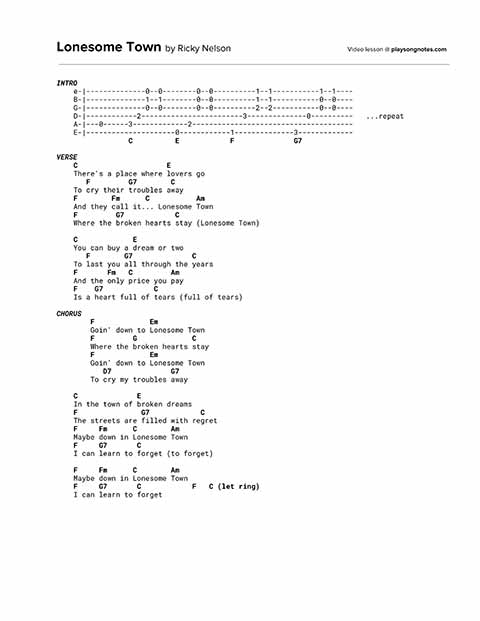
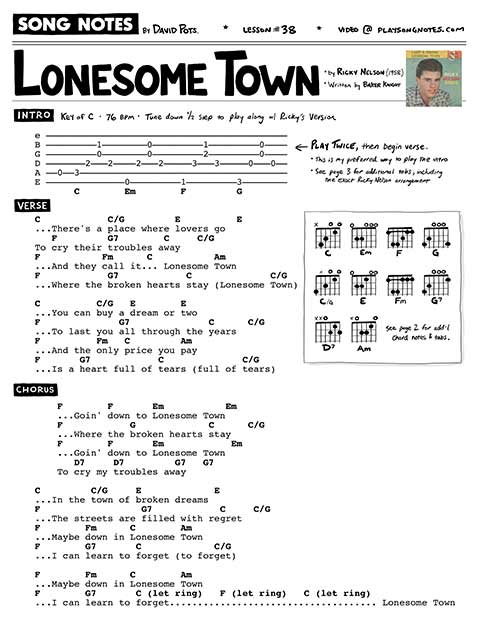
Adds 38

diff --git a/_lessons/38 [Ricky Nelson] Lonesome Town.md b/_lessons/38 [Ricky Nelson] Lonesome Town.md
@@ -12,10 +12,10 @@ hidden_tags: [Pulp Fiction, Tarantino]
 slug: "38"
 redirect_from:
   - /songs/ricky-nelson-lonesome-town/
-pdf_version: v1
+pdf_version: v2
 pdf_numpages: 4
 patreon_lesson_available: true
-patreon_lesson_url: https://www.patreon.com/posts/26435441
+patreon_lesson_url: https://www.patreon.com/posts/47547391
 ---
 
 ## Video lesson
@@ -26,7 +26,7 @@ patreon_lesson_url: https://www.patreon.com/posts/26435441
 
 ## Editor's notes
 
-This video is an acoustic guitar lesson for the song "Lonesome Town" by Ricky Nelson. I'll show you how to play it in standard tuning, using a fingerpicking approach. This lesson includes a playthrough, explanation of how to play each chord, overview of the chord progressions needed, fingerpicking basics -- I cover it all! Including the difference between a shuffle vs. straight rhythm. I created this tutorial for Songnotes, which is my personal music lesson web project (video and text-based lessons).
+This video is an acoustic guitar lesson for the song "Lonesome Town" by Ricky Nelson. I'll show you how to play it in standard tuning, using a fingerpicking approach. This lesson includes a playthrough, explanation of how to play each chord, overview of the chord progressions needed, fingerpicking basics -- I cover it all! Including the difference between a shuffle vs. straight rhythm. I created this tutorial for Song Notes, which is my personal music lesson web project (video and text-based lessons).
 
 Video timestamps:
 
@@ -40,78 +40,204 @@ Video timestamps:
 
 ## Lyrics with chords
 
+Key of C, 76 beats per minute. Tune down 1/2 step to play in same key as Ricky Nelson.
+
     INTRO
-        C . Em . F . G7 . (x2, see tab below)
+        e –––––––––––––––––––––––––––––––––––––––––––
+        B –––––––––1––––––––0–––––––––1–––––––––0––––  <= right ring
+        G –––––––––0––––––––0–––––––––2–––––––––0––––  <= right middle
+        D –––––––2–––2––––2–––2–––––3–––3–––––0–––0––  <= right index
+        A ––0––3–––––––––––––––––––––––––––––––––––––  <= right thumb
+        E ––––––––––––––0–––––––––1–––––––––3––––––––  <= right thumb
+               C        Em        F         G
 
     VERSE
-        C                     E
-        There's a place where lovers go
-           F         G7        C
+        C            C/G         E          E
+        ...There's a place where lovers go
+           F         G7        C     C
         To cry their troubles away
-        F        Fm      C           Am
-        And they call it... Lonesome Town
-        F         G7            C
-        Where the broken hearts stay (Lonesome Town)
+        F           Fm      C           Am
+        ...And they call it... Lonesome Town
+        F            G7            C              C/G
+        ...Where the broken hearts stay (Lonesome Town)
 
-        C             E
-        You can buy a dream or two
-           F        G7              C
-        To last you all through the years
-        F       Fm   C         Am
-        And the only price you pay
-        F    G7            C
-        Is a heart full of tears (full of tears)
+        C          C/G   E        E
+        ...You can buy a dream or two
+        F              G7              C      C/G
+        ...To last you all through the years
+        F          Fm   C         Am
+        ...And the only price you pay
+        F       G7            C              C/G
+        ...Is a heart full of tears (full of tears)
 
     CHORUS
-            F             Em
-            Goin' down to Lonesome Town
-            F         G             C
-            Where the broken hearts stay
-            F             Em
-            Goin' down to Lonesome Town
-               D7              G7
+            F        F       Em           Em
+            ...Goin' down to Lonesome Town
+            F            G             C      C/G
+            ...Where the broken hearts stay
+            F        F       Em            Em
+            ...Goin' down to Lonesome Town
+               D7     D7         G7   G7
             To cry my troubles away
 
-        C              E
-        In the town of broken dreams
-        F               G7            C
-        The streets are filled with regret
-        F     Fm      C        Am
-        Maybe down in Lonesome Town
-        F     G7       C
-        I can learn to forget (to forget)
+        C         C/G     E             E
+        ...In the town of broken dreams
+        F                  G7            C     C/G
+        ...The streets are filled with regret
+        F        Fm      C        Am
+        ...Maybe down in Lonesome Town
+        F        G7       C             C/G
+        ...I can learn to forget (to forget)
 
-        F     Fm      C        Am
-        Maybe down in Lonesome Town
-        F     G7       C            F   C (let ring)
-        I can learn to forget
+        F        Fm      C        Am
+        ...Maybe down in Lonesome Town
+        F        G7       C (let ring)   F (let ring)   C (let ring)
+        ...I can learn to forget....................................... Lonesome Town
 
-## Tune Down One-Half Step (Optional)
-If you intend to play along with the Ricky Nelson version of this song, then you'll need to tune your guitar down one-half step. Otherwise -- this isn't at all a requirement and can be skipped / ignored.
+## Tune down 1/2 step (optional)
+
+If you intend to play along with the Ricky Nelson version of this song, then you'll need to tune your guitar down one-half step: E-A-D-G-B-E becomes Eb-Ab-Db-Gb-Bb-Eb. If you're not interested in playing along with Ricky's version, you can ignore this -- it isn't at all a requirement and can be skipped / ignored. My video lesson is in standard tuning, to keep things simple.
 
 ## Chords Used
-Here is how to play the guitar chords used in this song. All instances of G7 can be replaced with a standard G if you please. Likewise, there are plenty of opportunities to include a C7 chord as well (especially in cases where C transitions to F) -- so I included it in the mix.
 
-    e-|----0---0----0----0----1----1----3----1----0----2----
-    B-|----1---1----0----0----1----1----0----0----1----1----
-    G-|----0---3----1----0----2----1----0----0----2----2----
-    D-|----2---2----2----2----3----3----0----0----2----0----
-    A-|----3---3----2----2----3----3----2----2----0---------
-    E-|-------------0----0----1----1----3----3--------------
-           C   C7   E    Em   F    Fm   G    G7   Am   D7
+Here's all the chords used in this song, shown in their conventional (most common) voicings. Use these as a starting point & reference guide... but don't hesitate to modify any of these if things give you trouble. For example:
 
-## Intro Tab
-If you'd like to emulate the exact intro the way Ricky plays it, here is an approximate tab. Listen along for reference. You can pick this with your fingers (which is what it sounds like he's doing on the album) or outright strum it -- up to you. Have fun with it and make it your own.
+- For the G7, you can use a regular G instead and it'll sound fine.
+- For the F and Fm, see my notes below on easier ways to play these if the full 6-string barred version gives you trouble.
+- For the C/G, you can stay on a regular C chord if you prefer (should the C/G be tricky)
 
-Note that the initial open-A string, played just before the opening C chord, is played on the first play-through only (don't repeat that note if you play this sequence more than once).
+    e-|----0---0----0----0----1----1----3----1----0----2--  --0--
+    B-|----1---1----0----0----1----1----0----0----1----1--  --1--
+    G-|----0---3----1----0----2----1----0----0----2----2--  --0--
+    D-|----2---2----2----2----3----3----0----0----2----0--  --2--
+    A-|----3---3----2----2----3----3----2----2----0-------  --x--
+    E-|-------------0----0----1----1----3----3------------  --3--
+           C   C7   E    Em   F    Fm   G    G7   Am   D7    C/G
 
-    e-|--------------0--0--------0--0----------1--1-----------1--1----
-    B-|--------------1--1--------0--0----------1--1-----------0--0----
-    G-|--------------0--0--------0--0----------2--2-----------0--0----  
-    D-|------------2------------------------3--------------0----------   ...repeat
-    A-|---0------3-------------2--------------------------------------
-    E-|---------------------0------------1--------------3-------------
-                 C          E            F              G7
+For the F and Fm chords, if the full 6-string barre gives you trouble, try only playing the thinnest 4 strings. This still requires a barre (for the Fm especially, because it has 3 first-fret notes in a row) -- but it's more forgiving on your hand than the 6 string barre. It sounds like Ricky does this for these two chords in the chorus, most of the time (you can hear him use the 4th string as the bass note of his usual plucking pattern).
+
+    e-|----1----1----
+    B-|----1----1----
+    G-|----2----1----
+    D-|----3----3----
+    A-|--------------
+    E-|--------------
+           F    Fm   
+
+For the F, if you're playing fingerstyle -- you can optionally use the technique of wrapping your left thumb around the neck of the guitar, to play the 1st fret of the low E string. This is difficult to learn, but very helpful once you have it mastered! It can even work for the Fm if your hand shape/size/strength/flexibility allows for it.
+
+    e-|----–---------
+    B-|----1----1----
+    G-|----2----1----
+    D-|----3----3----
+    A-|--------------
+    E-|----1----1----
+           F    Fm   
+
+## Chord progressions
+
+Here's the chord progression for this song. I don't note the C/G chords below, but if you want you can add them in the second half of any measure where you're on C for 4 full counts. Again, you can use a regular G instead of the G7 if you prefer.
+
+   INTRO
+   | C . Em . | F . G7 . | x2
+
+   VERSE
+   "There's a place where lovers go..."
+   | C . .  . | E . .  . | F . G7 . | C . . . |
+   | F . Fm . | C . Am . | F . G7 . | C . . . |
+
+   CHORUS
+   "Goin' down to Lonesome Town..."
+   | F . . . | Em . . . | F . G7 . | C . . . |
+   | F . . . | Em . . . | D7 . . . | G . . . |
+
+## Intro tab, how Ricky plays it
+
+If you'd like to emulate the exact intro the way Ricky plays it, here is an approximate tab. Listen along for reference. You can pick this with your fingers (which is what it sounds like he's doing on the album) or outright strum it -- up to you. Note that the initial open-A string, played just before the opening C chord, is played on the first play-through only (don't repeat that note if you play this sequence more than once).
+
+Note, I find this hard to play exactly as tabbed -- and make it sound "clean". Check out my other versions below to learn alternative ways to play it.
+
+    e –––––––––0–0––––––0–0–––––––1–1–––––––1–1––
+    B –––––––––1–1––––––0–0–––––––1–1–––––––0–0––
+    G –––––––––0–0––––––0–0–––––––2–2–––––––0–0––
+    D –––––––2––––––––––––––––––3–––––––––0––––––   ...repeat
+    A ––0––3––––––––––2––––––––––––––––––––––––––
+    E ––––––––––––––0–––––––––1–––––––––3––––––––
+           C        Em        F         G7
+
+## Intro tab, how I like to play it
+
+Here's my preferred way to play this same intro section of the song. I play it like this because it's easier, in my opinion! If you play this fingerstyle, note the right-hand string assignments I have marked down... the great part is, these fingers stay on their assigned strings the entire time. For the F chord, I play that low-E-string note with my wrapped left thumb.
+
+    e –––––––––––––––––––––––––––––––––––––––––––
+    B –––––––––1––––––––0–––––––––1–––––––––0––––  <= right ring
+    G –––––––––0––––––––0–––––––––2–––––––––0––––  <= right middle
+    D –––––––2–––2––––2–––2–––––3–––3–––––0–––0––  <= right index
+    A ––0––3–––––––––––––––––––––––––––––––––––––  <= right thumb
+    E ––––––––––––––0–––––––––1–––––––––3––––––––  <= right thumb
+           C        Em        F         G
+
+If that F gives you a hard time with the wrapped thumb, you can use a simpler voicing for the F, as follows (just play strings 2/3/4):
+
+    e –––––––––––––––––––––––––––––––––––––––––––
+    B –––––––––1––––––––0–––––––––1–––––––––0––––
+    G –––––––––0––––––––0–––––––––2–––––––––0––––
+    D –––––––2–––2––––2–––2–––3–3–––3–––––0–––0––
+    A ––0––3–––––––––––––––––––––––––––––––––––––
+    E ––––––––––––––0–––––––––––––––––––3––––––––
+           C        Em        F         G
+
+## Verse tab
+
+"There's a place where lovers go... to cry their troubles away"
+
+    See PDF for full tab
+
+<!-- e –––––––––––––––––––––––––––––––––––––––––––––––––––––––––––––––––––––––––––
+B ––––––1––––––––1––––––––0––––––––0––––––––1––––––––0–––––––––1––––––––1––––   
+G ––––––0––––––––0––––––––0––––––––0––––––––2––––––––0–––––––––0––––––––0––––   
+D ––––2–––2––––2–––2––––1–––1––––1–––1––––3–––3––––0–––0–––––2–––2––––2–––2––   
+A ––3––––––––––––––––––––––––––––––––––––––––––––––––––––––3–––––––––––––––––   
+E –––––––––––3––––––––0––––––––0––––––––1––––––––3––––––––––––––––––3––––––––   
+    C        C/G      E        E        F        G         C        C/G            -->
+
+"And they call it Lonesome Town... where the broken hearts stay"
+
+    See PDF for full tab
+
+<!-- e ––––––1––––––––1–––––––––––––––––––––––––––––––––––––––––––––––––––––––––––
+B ––––––1––––––––1––––––––1––––––––1––––––––1––––––––0–––––––––1––––––––1––––  
+G ––––2–––2––––1–––1––––––0––––––––2––––––––2––––––––0–––––––––0––––––––0––––  
+D ––3––––––––3––––––––––2–––2––––2–––2––––3–––3––––0–––0–––––2–––2––––2–––2––  
+A ––––––––––––––––––––3––––––––0–––––––––––––––––––––––––––3–––––––––––––––––  
+E ––––––––––––––––––––––––––––––––––––––1––––––––3––––––––––––––––––3––––––––   
+    F        Fm       C        Am       F        G         C        C/G        -->
+
+## Chorus tab
+
+"Going down to Lonesome Town, where the broken hearts stay..."
+
+    See PDF for full tab
+
+<!-- e ––––––1––––––––1–––––––––0––––––––0––––––––––––––––––––––––––––––––––––––––
+B ––––––1––––––––1–––––––––0––––––––0––––––––1––––––––0––––––––1––––––––1––––
+G ––––2–––2––––2–––2–––––0–––0––––0–––0––––––2––––––––0––––––––0––––––––0––––
+D ––3––––––––3–––––––––2––––––––2––––––––––3–––3––––0–––0––––2–––2––––2–––2––
+A –––––––––––––––––––––––––––––––––––––––––––––––––––––––––3–––––––––––––––––
+E –––––––––––––––––––––––––––––––––––––––1––––––––3–––––––––––––––––3––––––––
+    F        F         Em       Em       F        G        C        C/G       -->
+
+"Going down to Lonesome Town, to cry my troubles away..."
+
+    See PDF for full tab
+
+<!-- e ––––––1––––––––1––––––––0–––––––––0––––––––2––––––––2––––––––3––––––––1––––
+B ––––––1––––––––1––––––––0–––––––––0––––––––1––––––––1––––––––0––––––––0––––
+G ––––2–––2––––2–––2––––0–––0–––––0–––0––––2–––2––––2–––2––––0–––0––––0–––0––
+D ––3––––––––3––––––––2–––––––––2––––––––0––––––––0––––––––––––––––––––––––––
+A –––––––––––––––––––––––––––––––––––––––––––––––––––––––––––––––––––––––––––
+E –––––––––––––––––––––––––––––––––––––––––––––––––––––––––3––––––––3––––––––
+    F        F        Em        Em       D7       D7       G        G7 -->
 
 ## A Nod to the Original Songwriter
 Finally, I should note that this song was written by Baker Knight and not Ricky Nelson. For more info about the song, refer to its page on Wikipedia: http://en.wikipedia.org/wiki/Lonesome_Town
@@ -136,18 +262,3 @@ http://www.youtube.com/watch?v=sMBGdp8vJXQ
 ### Recommended Cover Version
 To get a good and clear look at someone skillfully playing this on guitar, I recommend this video by Mike Sinatra. Very well-played and well-shot acoustic performance, without any crazy changing cameras. Note, to play along with him you'll need to use a capo on the 3rd fret in standard tuning (which would be a capo 4th fret if tuned down one-half step).
 http://www.youtube.com/watch?v=bKJhYQ6oOHY
-
-## Chord progressions
-
-    INTRO
-    | C . Em . | F . G7 . | x2
-
-    VERSE
-    "There's a place where lovers go..."
-    | C . .  . | E . .  . | F . G7 . | C . . . |
-    | F . Fm . | C . Am . | F . G7 . | C . . . |
-
-    CHORUS
-    "Goin' down to Lonesome Town..."
-    | F . . . | Em . . . | F . G7 . | C . . . |
-    | F . . . | Em . . . | D7 . . . | G . . . |

diff --git a/_lessons/92 [Neil Young] Harvest Moon.md b/_lessons/92 [Neil Young] Harvest Moon.md
@@ -11,7 +11,7 @@ yt_video_id: _________
 slug: "92"
 redirect_from:
   - /songs/neil-young-harvest-moon/
-pdf_version: v1
+pdf_version: v2
 pdf_numpages: 2
 patreon_lesson_available: true
 patreon_lesson_url: https://www.patreon.com/posts/46776696
